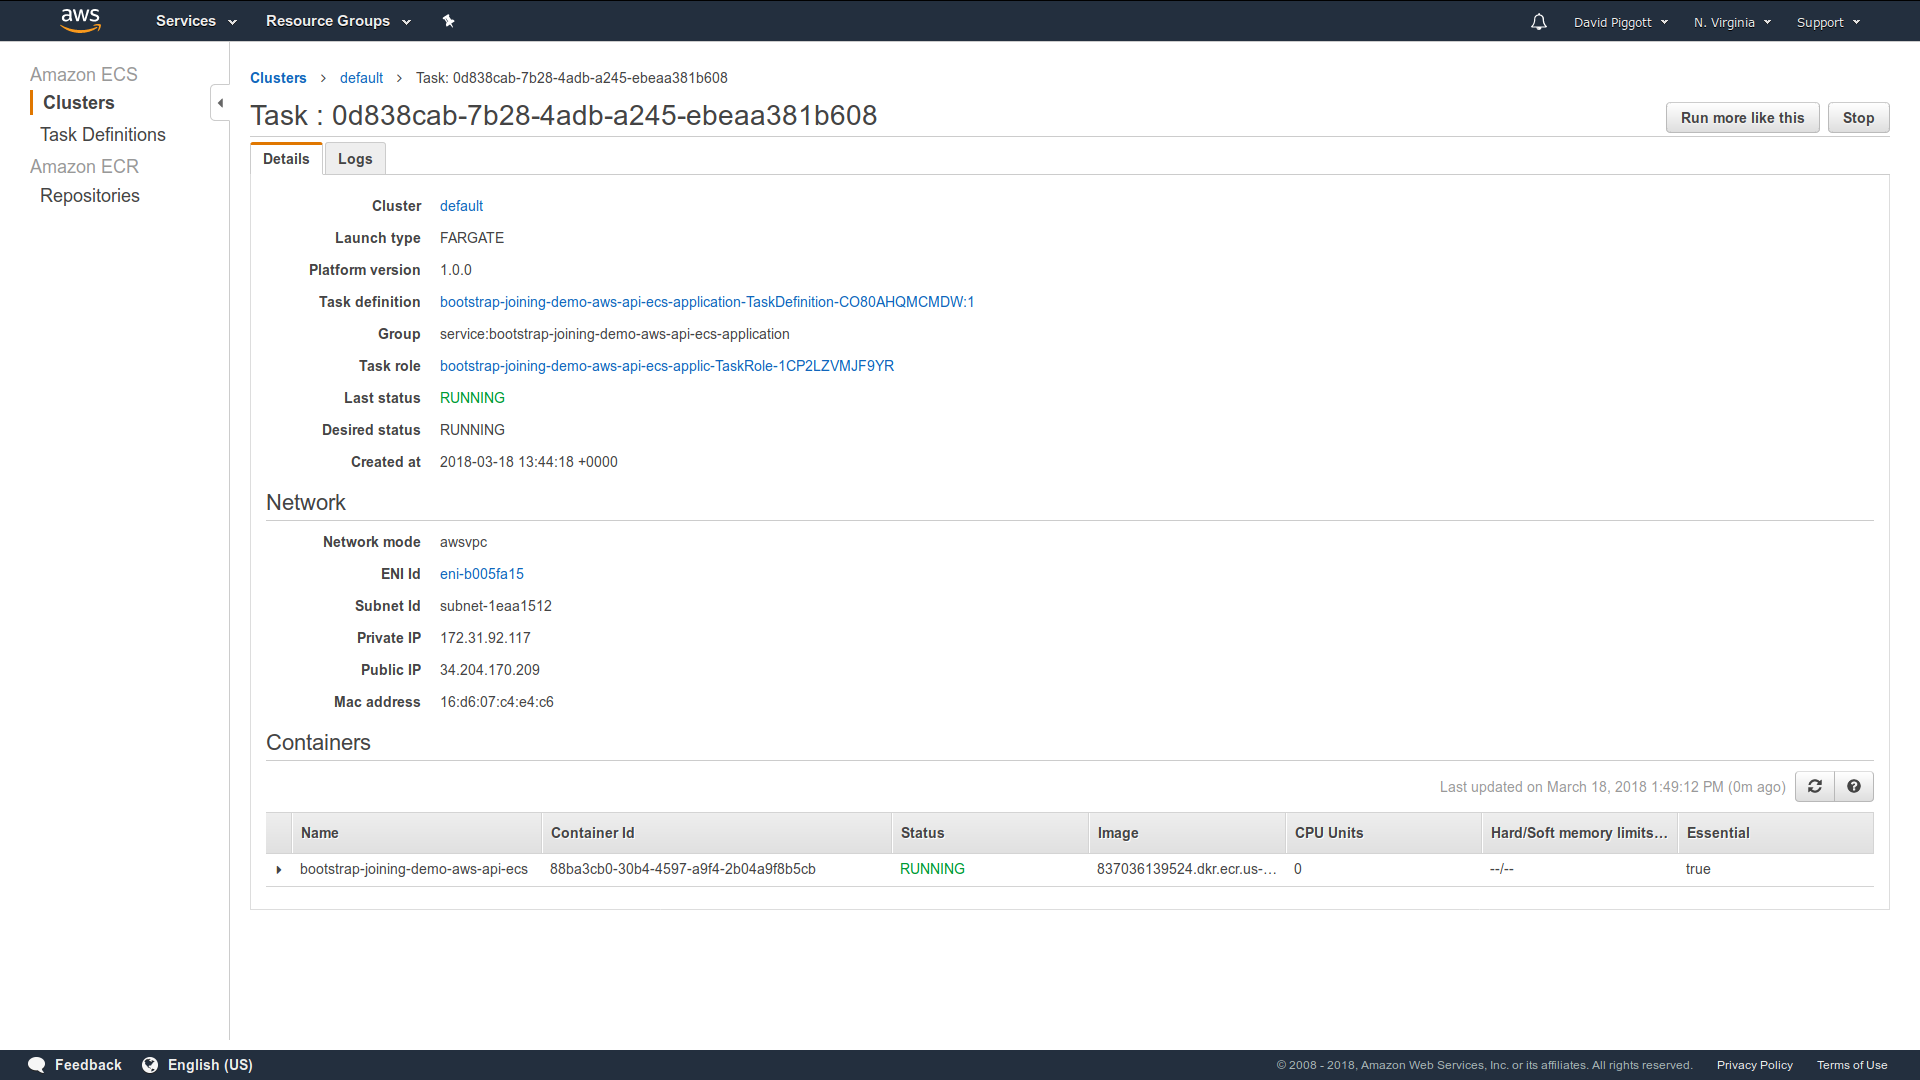
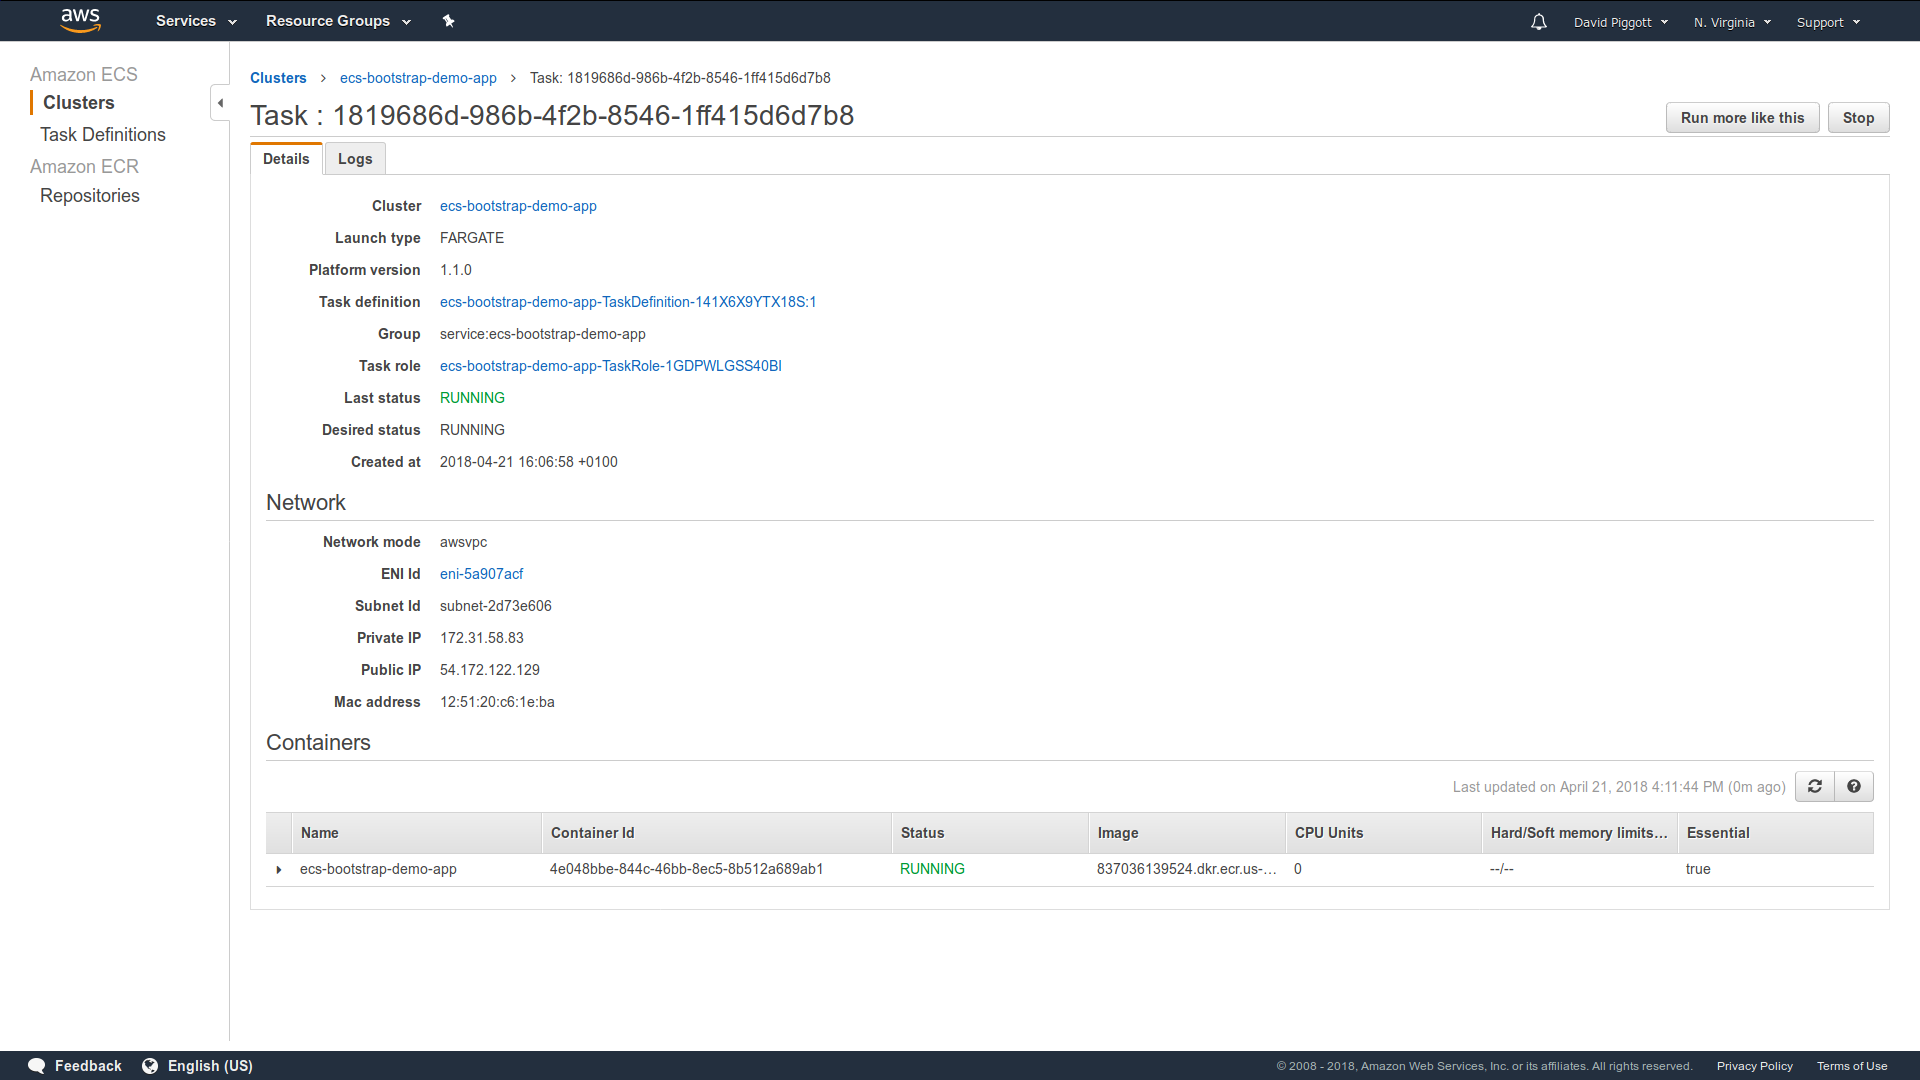
ECS service discovery improvements (#182)
* Make ECS clients lazily initialized

The commit message of
https://github.com/dhpcs/liquidity/commit/ad946d39c8a941914ce0825ef35e48c2dbecaa37
contains the full rationale, but in summary it's so that any failures in
creating the client (typically due to the AWS SDK provider chains not
finding credentials and/or region values) manifest as exceptions from
the call to lookup as opposed to the constructor. The reason this is
preferable is because of the way ServiceDiscovery itself instantiates
discovery implementations (with chained Try.recoverWith calls but
without ever logging failures).

* Fix minor typo in EcsApiDemoApp

The error message that getContainerAddress may produce already includes
a ".", so appending one here is excessive.

* Set dockerBaseImage := "openjdk:10-jre-slim" for ECS demo app

* Automate the identification of subnet IDs in the ECS demo app

This eliminates the only manual step that was required, making it that
much simpler to try.

Also make the wrapper scripts wait for stack actions to complete and add
support for updating the stacks via the scripts.

* Add support for discovery on non-default ECS clusters

Resolves #180.

* Make ECS demo app resource names shorter, update README and screenshots

* s/CloudWatchLogGroup/LogGroup/

For consistency with the convention used for other resource type names.

* Add docs for ECS discovery cluster name settings

* Read configs to named vals before reading cluster name

diff --git a/bootstrap-joining-demo/aws-api-ecs/README.md b/bootstrap-joining-demo/aws-api-ecs/README.md
@@ -40,7 +40,7 @@ You can do this manually via the web console by creating an ECR repository
 called `bootstrap-joining-demo-aws-api-ecs`, _or_ by running the included
 CloudFormation wrapper script:
 
-`./scripts/create-infrastucture.sh`
+`./scripts/deploy-infrastucture.sh create`
 
 
 # Step 3: Build and publish the Docker image
@@ -48,7 +48,7 @@ CloudFormation wrapper script:
 You can do so by running the provided script. We suggest you read the script
 before executing it, to understand what's happening inside:
 
-`./scripts/publish-application.sh`
+`./scripts/publish.sh`
 
 The script uses `docker:publishLocal` and then tags and pushes the image
 manually (in favour of just using `docker:publish` as might normally be done)
@@ -56,39 +56,14 @@ because this avoids the need to set `dockerRepository` within the SBT build
 (which would then require that we inject the AWS account ID into the build).
 
 
-# Step 4: Identify your subnet IDs
-
-The application stack configures the demo ECS service to launch with five task
-instances.
-
-Before you can create the cluster itself, you need to identify which subnets
-you want the task instances to be launched in.
-
-Go to the VPC service area of the AWS Management Console, then go to the
-Subnets tab. You can compare with the screenshot below as a guide to what
-you're looking for.
-
-![Identifying subnet IDs](screenshots/identify-subnet-ids.png)
-
-For the purposes of the demo we will assume you are using your default VPC (the
-one AWS creates for you automatically), though this need not be the case.
-
-Assign the IDs of the subnets that your VPC has to an environment variable for
-use in step five. You'll need them in the following format for CloudFormation:
-
-`SUBNETS=subnet-fd6f218a,subnet-2d73e606,subnet-9f2644c6,subnet-2c32b849,subnet-1eaa1512,subnet-a9e5dd93`
-
-(Do not use this literal value!)
-
-
-# Step 5: Create and validate the cluster
+# Step 4: Create and validate the cluster
 
 ## Create the cluster
 
 Again, the included wrapper script can be used for this (ultimately it
 just delegates to `aws cloudformation create-stack`):
 
-`./scripts/create-application.sh $SUBNETS`
+`./scripts/deploy.sh create`
 
 
 ## Watch it form
@@ -112,51 +87,51 @@ When the cluster has fully formed you should see output like this:
 
 ```
 {
-    "leader": "akka.tcp://bootstrap-joining-demo-aws-api-ecs@172.31.20.48:2552",
+    "leader": "akka.tcp://ecsBootstrapDemoApp@172.31.0.248:2552",
     "members": [
         {
-            "node": "akka.tcp://bootstrap-joining-demo-aws-api-ecs@172.31.69.157:2552",
-            "nodeUid": "75824639",
+            "node": "akka.tcp://ecsBootstrapDemoApp@172.31.0.248:2552",
+            "nodeUid": "-801839214",
             "roles": [
                 "dc-default"
             ],
             "status": "Up"
         },
         {
-            "node": "akka.tcp://bootstrap-joining-demo-aws-api-ecs@172.31.92.117:2552",
-            "nodeUid": "1615766934",
+            "node": "akka.tcp://ecsBootstrapDemoApp@172.31.92.234:2552",
+            "nodeUid": "-1965866076",
             "roles": [
                 "dc-default"
             ],
             "status": "Up"
         },
         {
-            "node": "akka.tcp://bootstrap-joining-demo-aws-api-ecs@172.31.5.114:2552",
-            "nodeUid": "1027838693",
+            "node": "akka.tcp://ecsBootstrapDemoApp@172.31.41.181:2552",
+            "nodeUid": "1441500118",
             "roles": [
                 "dc-default"
             ],
             "status": "Up"
         },
         {
-            "node": "akka.tcp://bootstrap-joining-demo-aws-api-ecs@172.31.44.16:2552",
-            "nodeUid": "-104324792",
+            "node": "akka.tcp://ecsBootstrapDemoApp@172.31.58.83:2552",
+            "nodeUid": "443867006",
             "roles": [
                 "dc-default"
             ],
             "status": "Up"
         },
         {
-            "node": "akka.tcp://bootstrap-joining-demo-aws-api-ecs@172.31.20.48:2552",
-            "nodeUid": "1783337367",
+            "node": "akka.tcp://ecsBootstrapDemoApp@172.31.67.222:2552",
+            "nodeUid": "-17061216",
             "roles": [
                 "dc-default"
             ],
             "status": "Up"
         }
     ],
-    "oldest": "akka.tcp://bootstrap-joining-demo-aws-api-ecs@172.31.20.48:2552",
-    "selfNode": "akka.tcp://bootstrap-joining-demo-aws-api-ecs@172.31.92.117:2552",
+    "oldest": "akka.tcp://ecsBootstrapDemoApp@172.31.0.248:2552",
+    "selfNode": "akka.tcp://ecsBootstrapDemoApp@172.31.58.83:2552",
     "unreachable": []
 }
 ```
@@ -177,7 +152,7 @@ instance:
 ![Viewing log stream](screenshots/view-log-stream.png)
 
 
-# Step 6: Cleanup
+# Step 5: Cleanup
 
 With one exception, deletion of all the resources created by the demo can be
 achieved by telling CloudFormation to delete the two stacks.
@@ -190,8 +165,3 @@ it's empty, so first go and delete the image in ECR:
 You can now delete the two stacks:
 
 ![Deleting stacks](screenshots/delete-stack.png)
-
-You'll probably also want to delete the Docker images from your local registry:
-
-1. `docker rmi 837036139524.dkr.ecr.us-east-1.amazonaws.com/bootstrap-joining-demo-aws-api-ecs:1.0`
-2. `docker rmi bootstrap-joining-demo-aws-api-ecs`

diff --git a/docs/src/main/paradox/discovery.md b/docs/src/main/paradox/discovery.md
@@ -393,6 +393,10 @@ And in your `application.conf`:
 ```
 akka.discovery {
   method = aws-api-ecs
+  aws-api-ecs {
+    # Defaults to "default" to match the AWS default cluster name if not overridden
+    cluster = "your-ecs-cluster-name"
+  }
 }
 ```
 
@@ -419,6 +423,10 @@ And in your `application.conf`:
 ```
 akka.discovery {
   method = aws-api-ecs-async
+  aws-api-ecs-async {
+    # Defaults to "default" to match the AWS default cluster name if not overridden
+    cluster = "your-ecs-cluster-name"
+  }
 }
 ```
 
